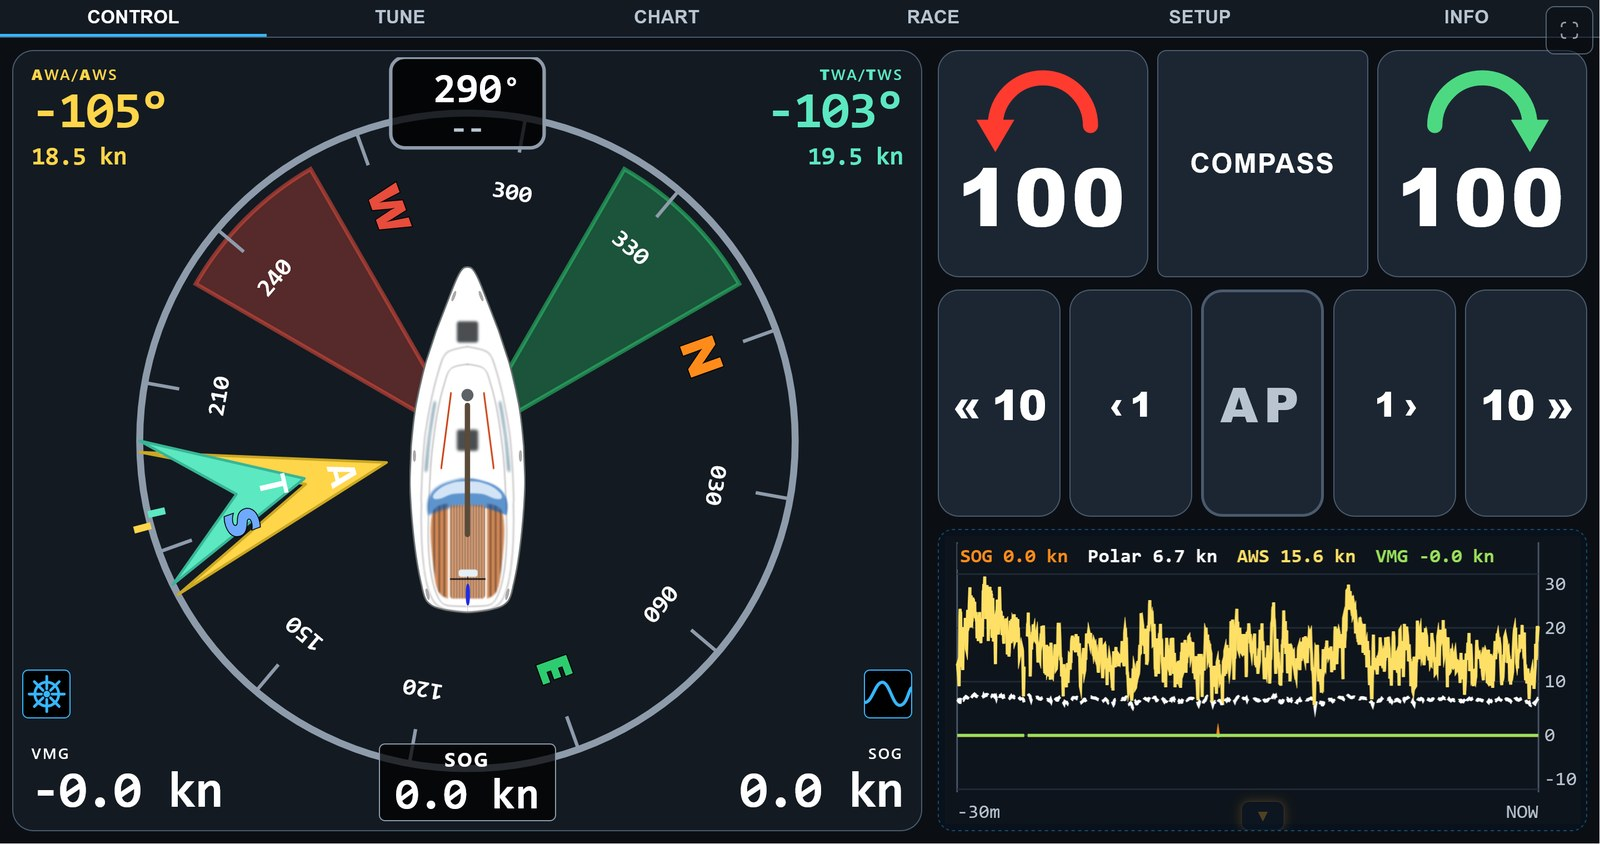
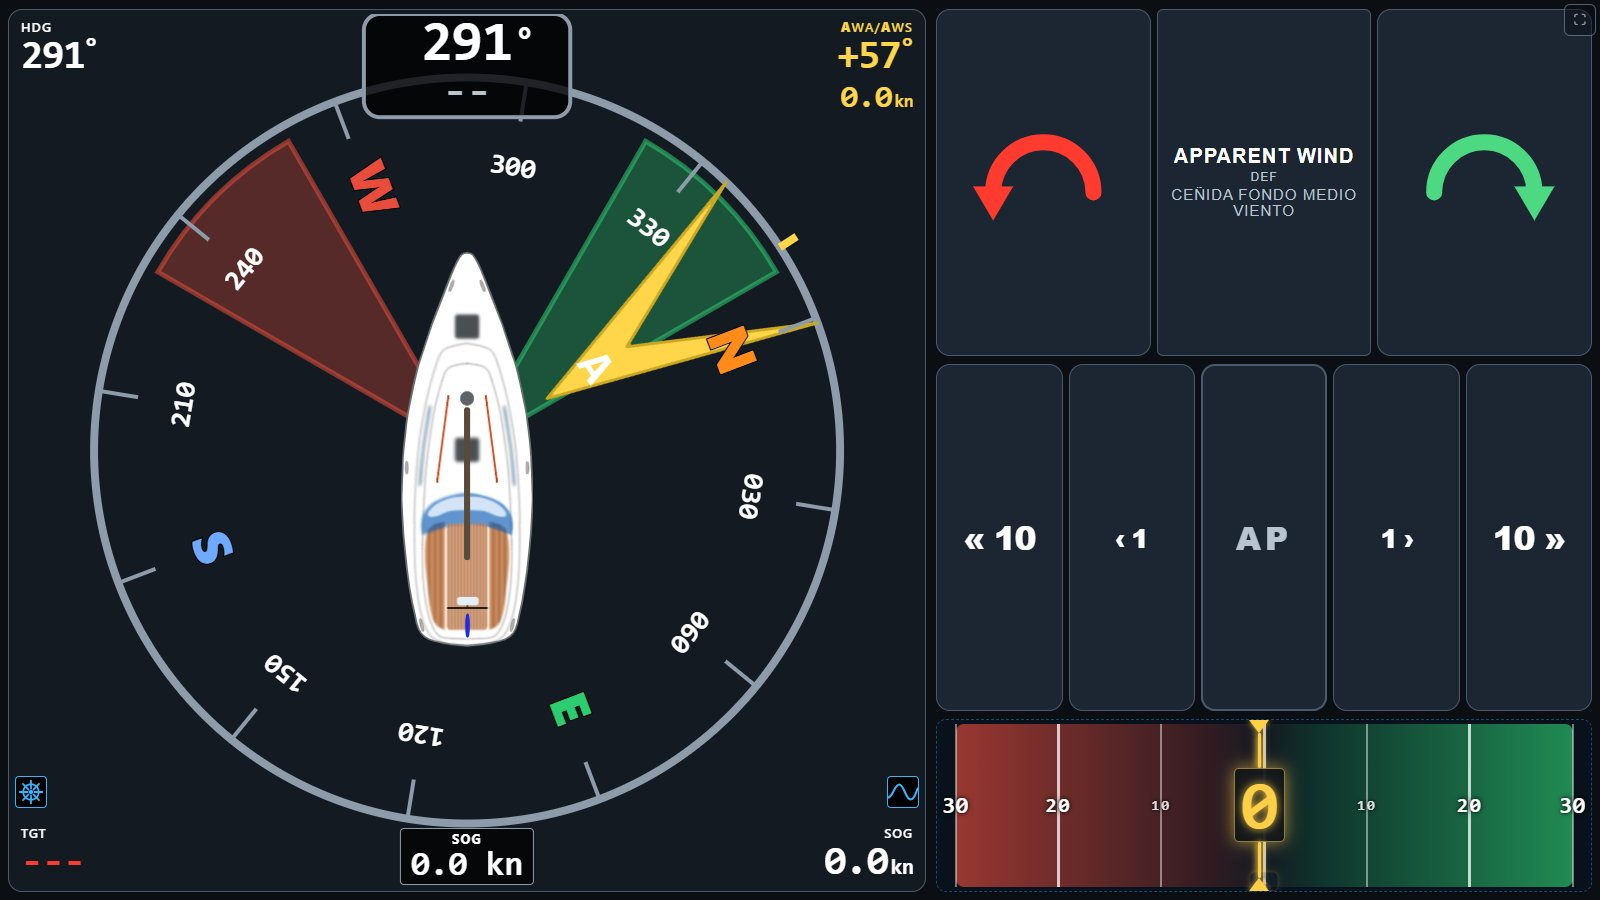
3.18.1 (Rev774-775): ready for pypilot's next version (a mode's profile may move the mode: put back once, then warn), one block at a time controls fill the height, long mode names fit the rose AP button, new screenshots (one block at a time, profile per mode, calibration, rose)

diff --git a/public/app.js b/public/app.js
@@ -1294,6 +1294,7 @@
       "cal.msg.offline": "Not sent: pypilot is not connected.",
       "cal.msg.fail": "Not sent ({code}). Try again.",
       "mode.defProfile": "Default profile for {mode}",
+      "mode.profileMoved": "pypilot changed the mode to {mode} with the profile {profile}. Check the mode.",
       "mode.defNone": "None (keep the current profile)",
       "helmChart.window": "Chart time",
       "helmChart.empty":      "No data for the chosen series yet",
@@ -2926,6 +2927,7 @@
       "cal.msg.offline": "No se ha enviado: pypilot no está conectado.",
       "cal.msg.fail": "No se ha enviado ({code}). Inténtalo de nuevo.",
       "mode.defProfile": "Perfil por defecto para {mode}",
+      "mode.profileMoved": "pypilot cambió el modo a {mode} con el perfil {profile}. Revisa el modo.",
       "mode.defNone": "Ninguno (deja el perfil actual)",
       "helmChart.window": "Tiempo de la gráfica",
       "helmChart.empty":      "Aún no hay datos de las series elegidas",
@@ -4553,6 +4555,7 @@
       "cal.msg.offline": "Nicht gesendet: pypilot ist nicht verbunden.",
       "cal.msg.fail": "Nicht gesendet ({code}). Bitte erneut versuchen.",
       "mode.defProfile": "Standardprofil für {mode}",
+      "mode.profileMoved": "pypilot hat mit dem Profil {profile} in den Modus {mode} gewechselt. Bitte den Modus prüfen.",
       "mode.defNone": "Keins (aktuelles Profil behalten)",
       "helmChart.window": "Diagrammzeit",
       "helmChart.empty": "Noch keine Daten für die gewählten Reihen",
@@ -6153,6 +6156,7 @@
       "cal.msg.offline": "Non envoyé : pypilot n'est pas connecté.",
       "cal.msg.fail": "Non envoyé ({code}). Réessaie.",
       "mode.defProfile": "Profil par défaut pour {mode}",
+      "mode.profileMoved": "pypilot est passé en mode {mode} avec le profil {profile}. Vérifie le mode.",
       "mode.defNone": "Aucun (garder le profil actuel)",
       "helmChart.window": "Durée du graphique",
       "helmChart.empty": "Pas encore de données pour les séries choisies",
@@ -14706,7 +14710,18 @@
     const first = mb && mb.firstChild && mb.firstChild.nodeType === 3 ? mb.firstChild.textContent : (mb ? mb.textContent : "");
     const txt = (first || "").trim().toUpperCase().slice(0, 14);
     const m = document.getElementById("rose-ap-mode");
-    if (m && m.textContent !== txt) m.textContent = txt;
+    if (m && m.textContent !== txt) {
+      m.textContent = txt;
+      // Rev774: a long mode name ("APPARENT WIND") is squeezed to the
+      // button's width instead of running out of it.
+      m.removeAttribute("textLength");
+      m.removeAttribute("lengthAdjust");
+      try {
+        // measured when on screen, else ~4.6 units a letter at this size
+        const w = m.getComputedTextLength() || txt.length * 4.6;
+        if (w > 48) { m.setAttribute("textLength", "48"); m.setAttribute("lengthAdjust", "spacingAndGlyphs"); }
+      } catch { /* not laid out yet */ }
+    }
   }
   function _renderModeSelectBtn() {
     try { setTimeout(_roseApRender, 0); } catch { /* silent */ }
@@ -15202,6 +15217,25 @@
     while (state.mode !== mode && Date.now() - t0 < 4000) await new Promise((r) => setTimeout(r, 200));
     if (state.mode !== mode || want === state.profile) return;
     try { await pluginRaw("profile", want); } catch { /* silent */ }
+    // Rev774 (Sean, forum tid 7165 #11): after 0.71 each pypilot pilot
+    // remembers its last mode, so the profile (with its pilot) may move the
+    // boat to another mode. If it did, put the chosen mode back ONCE - the
+    // pilot then remembers it - and if it still does not stay, say so
+    // instead of insisting.
+    const sleep = (ms) => new Promise((r) => setTimeout(r, ms));
+    const t1 = Date.now();
+    while (state.mode === mode && Date.now() - t1 < 3000) await sleep(200);
+    if (state.mode === mode) return;
+    const nativeSel = document.getElementById("mode-select");
+    if (nativeSel) {
+      nativeSel.value = mode;
+      nativeSel.dispatchEvent(new Event("change", { bubbles: true }));
+    }
+    const t2 = Date.now();
+    while (state.mode !== mode && Date.now() - t2 < 4000) await sleep(200);
+    if (state.mode !== mode) {
+      _apWarnToast(t("mode.profileMoved").replace("{profile}", want).replace("{mode}", _modeLabel(state.mode || "")));
+    }
   }
   function _modeProfileDefaultPicker(li) {
     const mode = li.dataset.mode || "";

diff --git a/public/style.css b/public/style.css
@@ -5378,9 +5378,9 @@ body.layout-one.lo-controls #tab-control .controls {
 body.layout-one.lo-controls #tab-control .controls:has(.swipe-hint.view-chart),
 body.layout-one.lo-controls #tab-control .controls:has(.swipe-hint.view-fb) { --strip-fr: 1.33fr; }
 body.layout-one.lo-controls #tab-control .controls .row-tack-mode,
-body.layout-one.lo-controls #tab-control .controls .row-nudge-ap { height: 100%; align-items: stretch; }
+body.layout-one.lo-controls #tab-control .controls .row-nudge-ap { height: 100% !important; flex: initial !important; align-items: stretch; }   /* Rev774: beats the portrait row height */
 body.layout-one.lo-controls #tab-control .controls .row-tack-mode > *,
-body.layout-one.lo-controls #tab-control .controls .row-nudge-ap > * { height: 100%; min-height: 0; }
+body.layout-one.lo-controls #tab-control .controls .row-nudge-ap > * { height: 100% !important; min-height: 0; }
 body.layout-one.lo-controls #tab-control .controls .swipe-hint { margin-top: 0; min-height: 48px; }
 /* Rev758 (Carlos: the rose left a gap under it): in portrait the rose's
    height is capped to leave room for the buttons and the panel; in the

diff --git a/public/index.html b/public/index.html
@@ -27,7 +27,7 @@
        style.css never shows the rose unstyled on a white page. The rose
        is hidden until style.css (loaded below) makes it visible again. -->
   <style>html,body{background:#0a1220;color:#e6edf3}#wind-rose{visibility:hidden}</style>
-  <link rel="stylesheet" href="style.css?v=Rev773" />
+  <link rel="stylesheet" href="style.css?v=Rev775" />
 </head>
 <body class="theme-dark">
   <!-- Rev490 (GPU audit 2026-10-15): flag the Raspberry Pi's own screen
@@ -3021,6 +3021,6 @@
     </div>
   </div>
 
-  <script src="app.js?v=Rev773"></script>
+  <script src="app.js?v=Rev775"></script>
 </body>
 </html>

diff --git a/src/index.ts b/src/index.ts
@@ -98,7 +98,7 @@ import {
 
 // Rev counter bumped on every build so the user can distinguish deploys
 // from the webapp header (feedback_revision_bump_each_build).
-const PLUGIN_REVISION = "Rev773";
+const PLUGIN_REVISION = "Rev775";
 
 // Rev59: read package.json once at load time so /status can report the
 // npm package version alongside the internal Rev counter.

diff --git a/README.md b/README.md
@@ -31,6 +31,14 @@ Questions, ideas and sailing reports: **[PyPilot New-UI thread on the OpenMarine
 
 ## Screenshots
 
+| One block at a time · rose | One block at a time · controls |
+|---|---|
+| ![Half of a shared screen: the rose alone, with the AP and mode button on the boat](https://raw.githubusercontent.com/Aitonos/signalk-pypilot-newui/main/public/screenshots/15-layout-one-rose.jpg) | ![The controls alone, using the whole height; swipe or the dots to go back to the rose](https://raw.githubusercontent.com/Aitonos/signalk-pypilot-newui/main/public/screenshots/16-layout-one-controls.jpg) |
+
+| A profile for each mode | Calibration · live reading |
+|---|---|
+| ![Mode window: the profile linked to each mode under its name, DEF on the default](https://raw.githubusercontent.com/Aitonos/signalk-pypilot-newui/main/public/screenshots/14-mode-profiles.jpg) | ![Calibration: heel, pitch and heading read now, Level and rudder buttons](https://raw.githubusercontent.com/Aitonos/signalk-pypilot-newui/main/public/screenshots/17-calibration.jpg) |
+
 | Bottom bar · live chart | Bottom bar · Freeboard-SK |
 |---|---|
 | ![Control tab with the bottom bar as a chart: SOG, polar max speed, AWS and TWS on one knots scale](https://raw.githubusercontent.com/Aitonos/signalk-pypilot-newui/main/public/screenshots/09-control-strip-chart.jpg) | ![Control tab with Freeboard-SK in the bottom bar under the controls](https://raw.githubusercontent.com/Aitonos/signalk-pypilot-newui/main/public/screenshots/10-control-strip-freeboard.jpg) |

diff --git a/CHANGELOG.md b/CHANGELOG.md
@@ -1,5 +1,22 @@
 # Changelog
 
+## 3.18.1 — 2026-11-25 — Ready for pypilot's next version, new screenshots
+
+Rev774-775 on top of 3.18.0.
+
+- **Ready for pypilot's next version** (announced by Sean on the forum):
+  each pypilot pilot will remember its last mode, so applying a mode's
+  profile could move the boat to another mode. After applying it the
+  plugin checks the mode, puts the chosen one back once if pypilot changed
+  it (the pilot then remembers it), and warns instead of insisting if it
+  still does not stay. With pypilot 0.71 nothing changes.
+- **One block at a time:** the controls now fill the whole height (in
+  portrait the button rows kept their own height and left gaps), and a long
+  mode name such as "APPARENT WIND" fits inside the rose's AP button.
+- **New screenshots** in the README and the App Store: one block at a time
+  (rose and controls), a profile for each mode, calibration with the live
+  reading, and the rose.
+
 ## 3.18.0 — 2026-11-25 — One block at a time, a profile for each mode, real tacks
 
 Rev756-773 on top of 3.17.0, from the forum (Kalle, Michael) and the boat.
